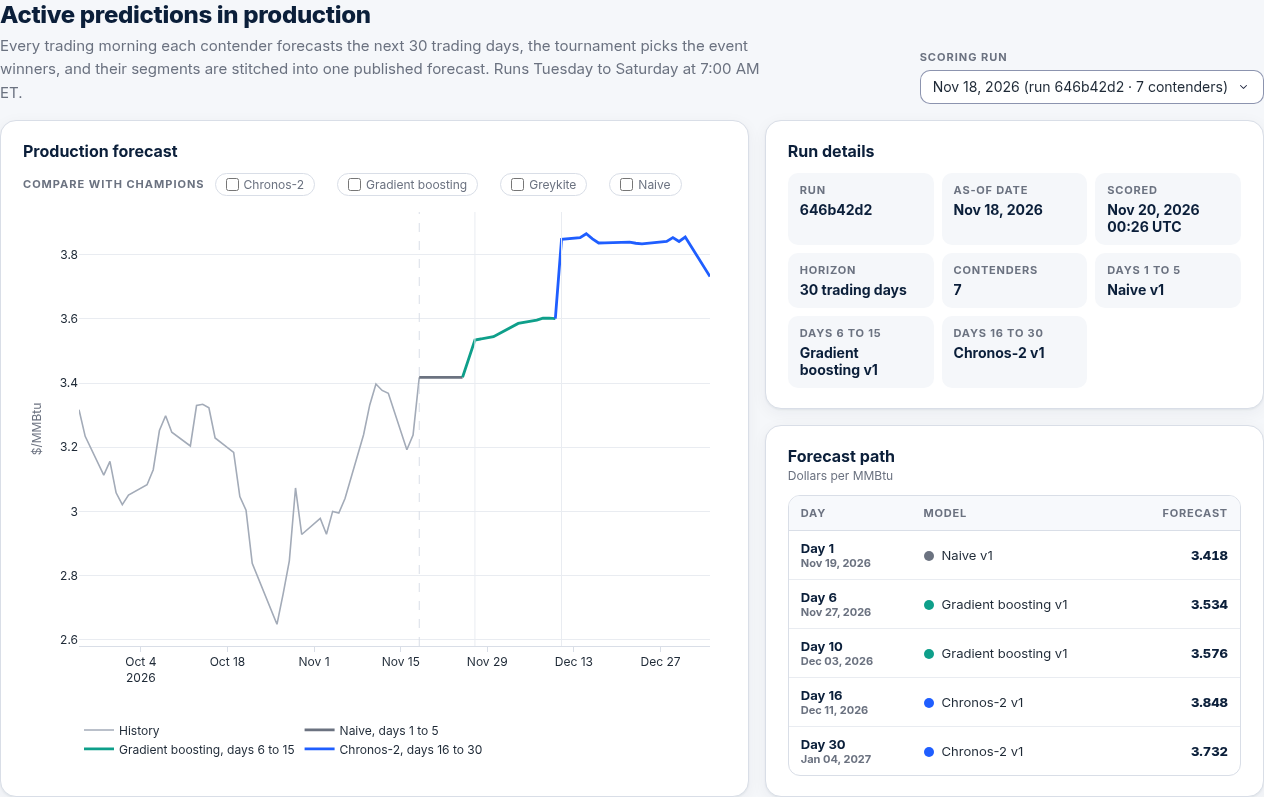
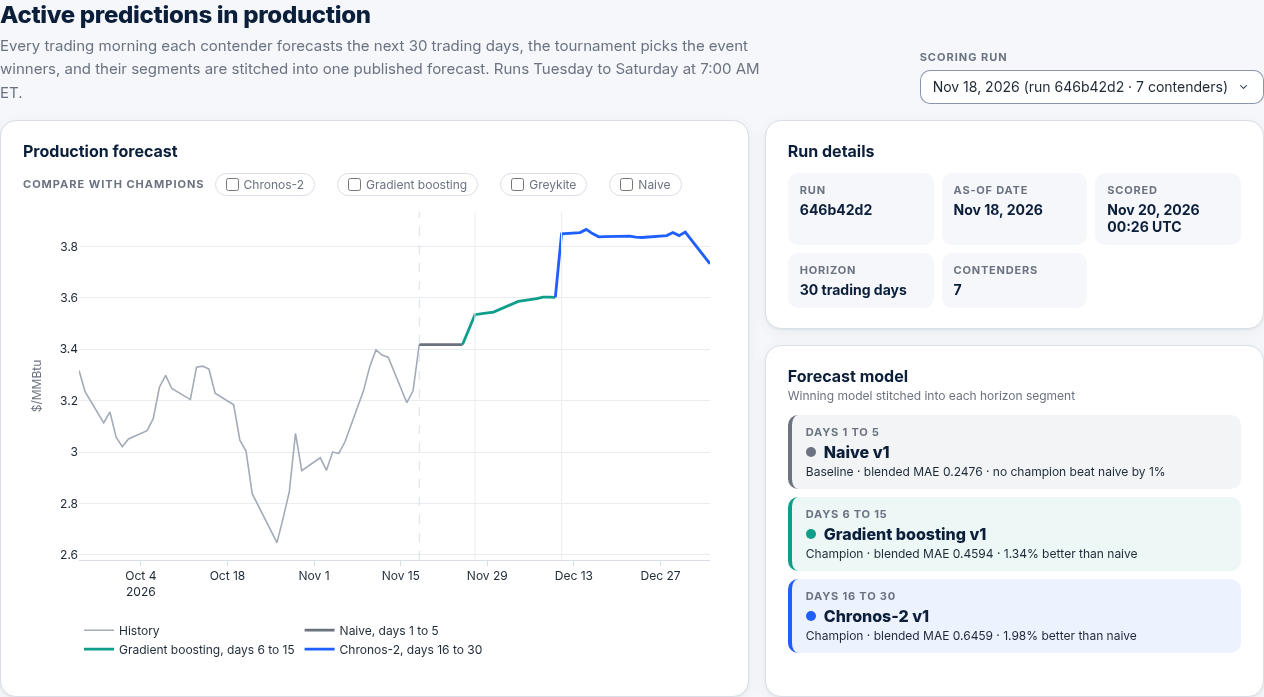
replace forecast path with forecast model card

diff --git a/assets/style.css b/assets/style.css
@@ -529,7 +529,6 @@ a { color: var(--accent); }
 .deck-table .rank-cell { width: 44px; text-align: center; color: var(--muted); font-weight: 700; }
 .deck-table td.strong { font-weight: 800; color: var(--navy); }
 .deck-table tr.is-top td { background: #F5F8FF; }
-.deck-table .path-model { white-space: nowrap; font-size: 13px; }
 .panel-head { display: flex; justify-content: space-between; align-items: center; gap: 12px; flex-wrap: wrap; }
 .compare-row { display: flex; align-items: center; gap: 10px; }
 .compare-row .control-label { margin: 0; white-space: nowrap; }
@@ -560,3 +559,11 @@ a { color: var(--accent); }
 .run-selector-block { display: flex; flex-direction: column; gap: 6px; min-width: 340px; }
 .run-selector-block .control-label { margin: 0; }
 .run-selector .Select-control, .run-selector .dash-dropdown { border-radius: var(--radius-input); }
+
+/* Forecast model card */
+.model-events { display: flex; flex-direction: column; gap: 8px; margin-top: 12px; }
+.model-event { border-left: 4px solid var(--model-color); background: color-mix(in srgb, var(--model-color) 8%, #FFFFFF); border-radius: var(--radius-input); padding: 10px 14px; }
+.model-event-days { font-size: 11px; font-weight: 700; color: var(--muted); text-transform: uppercase; letter-spacing: 0.8px; }
+.model-event-name { display: flex; align-items: center; font-size: 16px; font-weight: 800; color: var(--navy); margin: 3px 0 2px; }
+.model-event-detail { font-size: 12px; color: var(--ink); }
+.deck-stack > .panel:last-child { flex: 1; }

diff --git a/tests/test_forecast_page.py b/tests/test_forecast_page.py
@@ -12,12 +12,13 @@ from components.forecast.BacktestFanChart import BacktestFanChart
 from components.forecast.BacktestScoreTable import BacktestScoreTable
 from components.forecast.EventWinners import EventWinners
 from components.forecast.ForecastIds import ForecastIds
-from components.forecast.ForecastPathTable import ForecastPathTable
+from components.forecast.ForecastModelCard import ForecastModelCard
 from components.forecast.KpiCards import KpiCards
 from components.forecast.ProductionForecastChart import ProductionForecastChart
 from components.forecast.RunDetails import RunDetails
 from components.forecast.SectionHeading import SectionHeading
 from components.forecast.StandingsTable import StandingsTable
+from config.ForecastModels import ForecastModels
 from config.Settings import Settings
 from data.forecast.ForecastCache import ForecastCache
 from data.forecast.ForecastSnapshotBuilder import ForecastSnapshotBuilder
@@ -179,16 +180,37 @@ def test_run_selector_defaults_to_the_newest_run(cache_factory):
     assert "Scoring run" in text_of(layout)
 
 
-def test_run_details_and_path_table_describe_the_run(cache_factory):
+def test_run_details_stay_compact(cache_factory):
+    details = RunDetails().build(run_of(cache_factory()))
+    labels = [text_of(item.children[0]) for item in details.children]
+    assert labels == ["Run", "As-of date", "Scored", "Horizon", "Contenders"]
+    for expected in ("run1", "Mar 15, 2024", "20 trading days", "5"):
+        assert expected in text_of(details)
+
+
+def test_forecast_model_card_highlights_the_winner_of_each_event(cache_factory):
     cache = cache_factory()
-    details = text_of(RunDetails().build(run_of(cache)))
-    for expected in ("run1", "Mar 15, 2024", "20 trading days", "Days 6 to 15", "Gradient boosting v1", "Chronos-2 v1"):
-        assert expected in details
-    table = text_of(ForecastPathTable().build(PredictionRuns(cache.predictions()).production("run1")))
-    for expected in ("Day 1", "Day 6", "Day 10", "Day 16", "Naive v1", "3.660"):
-        assert expected in table
-    assert "3.300" not in table and "3.700" not in table
-    assert "Day 30" not in table
+    production = PredictionRuns(cache.predictions()).production("run1")
+    events = tournament_of(cache).events_on(pd.Timestamp("2024-03-15"))
+    card = ForecastModelCard().build(production, events)
+    rows = card.children
+    assert [text_of(row.children[0]) for row in rows] == ["Days 1 to 5", "Days 6 to 15", "Days 16 to 30"]
+    assert [text_of(row.children[1]).strip() for row in rows] == ["Naive v1", "Gradient boosting v1", "Chronos-2 v1"]
+    assert rows[0].style == {"--model-color": ForecastModels.color("naive")}
+    assert rows[2].style == {"--model-color": ForecastModels.color("chronos")}
+    assert text_of(rows[0].children[2]) == "Baseline \u00b7 blended MAE 0.2000 \u00b7 no champion beat naive by 1%"
+    assert text_of(rows[1].children[2]) == "Champion \u00b7 blended MAE 0.4000 \u00b7 4.76% better than naive"
+
+
+def test_forecast_model_card_falls_back_to_the_production_rows(cache_factory):
+    cache = cache_factory()
+    production = PredictionRuns(cache.predictions()).production("run1")
+    card = ForecastModelCard().build(production, cache.events().iloc[0:0])
+    text = text_of(card)
+    assert "Days 16 to 20" in text and "Gradient boosting v1" in text
+    assert "Baseline \u00b7 from the production forecast" in text
+    assert "blended MAE" not in text
+    assert "No production runs" in text_of(ForecastModelCard().build(production.iloc[0:0], cache.events()))
 
 
 def test_section_heading_has_no_number():
@@ -226,6 +248,7 @@ def test_page_order_and_copy(cache_factory):
         "80% band",
         "Inside the band",
         "Interval coverage",
+        "Forecast path",
         "How it runs",
         "Caveats",
         "pending",
@@ -244,7 +267,7 @@ def test_run_view_updates_for_the_selected_run(cache_factory):
     chart, table, details = page.run_view("run1", ["chronos:champion"])
     assert "Chronos-2 champion path" in trace_names(chart)
     assert "run1" in text_of(details)
-    assert "Day 16" in text_of(table)
+    assert "Chronos-2 v1" in text_of(table) and "Days 16 to 30" in text_of(table)
 
 
 def test_scoreboard_is_collapsible_and_closed_by_default(cache_factory):

diff --git a/pages/PriceForecastPage.py b/pages/PriceForecastPage.py
@@ -13,7 +13,7 @@ from components.forecast.BacktestFanChart import BacktestFanChart
 from components.forecast.BacktestScoreTable import BacktestScoreTable
 from components.forecast.EventWinners import EventWinners
 from components.forecast.ForecastIds import ForecastIds as Ids
-from components.forecast.ForecastPathTable import ForecastPathTable
+from components.forecast.ForecastModelCard import ForecastModelCard
 from components.forecast.KpiCards import KpiCards
 from components.forecast.ProductionForecastChart import ProductionForecastChart
 from components.forecast.RunDetails import RunDetails
@@ -224,12 +224,12 @@ class PriceForecastPage(AbstractProjectPage):
                                 ),
                                 html.Div(
                                     [
-                                        html.H3("Forecast path"),
+                                        html.H3("Forecast model"),
                                         html.Div(
-                                            "Dollars per MMBtu",
+                                            "Winning model stitched into each horizon segment",
                                             className="panel-subtitle",
                                         ),
-                                        html.Div(id=Ids.PATH_TABLE, className="table-wrap"),
+                                        html.Div(id=Ids.MODEL_CARD),
                                     ],
                                     className="panel deck-panel",
                                 ),
@@ -356,7 +356,7 @@ class PriceForecastPage(AbstractProjectPage):
 
         @app.callback(
             Output(Ids.PRODUCTION_CHART, "figure"),
-            Output(Ids.PATH_TABLE, "children"),
+            Output(Ids.MODEL_CARD, "children"),
             Output(Ids.RUN_DETAILS, "children"),
             Input(Ids.RUN_SELECTOR, "value"),
             Input(Ids.COMPARE_CHAMPIONS, "value"),
@@ -369,7 +369,7 @@ class PriceForecastPage(AbstractProjectPage):
             return StandingsTable().build(self.tournament.standings(bucket or self.DEFAULT_BUCKET))
 
     def run_view(self, run_id: str | None, compare: list[str] | None = None) -> tuple:
-        """Chart, forecast path table and details for one run."""
+        """Chart, forecast model card and details for one run."""
         run = self.runs.run(run_id)
         as_of = run["as_of_date"].max() if len(run) else None
         history = (
@@ -378,7 +378,8 @@ class PriceForecastPage(AbstractProjectPage):
             else pd.DataFrame(columns=["date", "high"])
         )
         chart = ProductionForecastChart().build(history, run, compare)
-        return chart, ForecastPathTable().build(self.runs.production(run_id)), RunDetails().build(run)
+        models = ForecastModelCard().build(self.runs.production(run_id), self.tournament.events_on(as_of))
+        return chart, models, RunDetails().build(run)
 
     def fan_stats(self, as_of: pd.Timestamp, models: list[str]) -> list:
         """Small chips under the fan chart: each model's MAE on this date."""

diff --git a/components/forecast/ForecastModelCard.py b/components/forecast/ForecastModelCard.py
@@ -1,0 +1,59 @@
+"""The model behind each horizon segment of one production forecast."""
+
+import pandas as pd
+from dash import html
+
+from analytics.forecast.PredictionRuns import PredictionRuns
+from config.ForecastModels import ForecastModels
+from config.Formats import Formats
+
+
+class ForecastModelCard:
+    """One highlighted row per event: the event days, the winning model and version, its role and score.
+
+    The production rows say which model was stitched into each segment. The event winners
+    for the same as-of date add the role, blended MAE and margin over naive. When a run has
+    no event winners, the role is read from the model and the score is left out.
+    """
+
+    def build(self, production: pd.DataFrame, events: pd.DataFrame) -> html.Div:
+        segments = PredictionRuns.segments(production)
+        if segments.empty:
+            return html.Div("No production runs yet.", className="panel-note")
+        by_first_day = {int(event.first_day): event for event in events.itertuples()}
+        rows = [self.row(segment, by_first_day.get(int(segment.first_day))) for segment in segments.itertuples()]
+        return html.Div(rows, className="model-events")
+
+    def row(self, segment, event) -> html.Div:
+        if event is not None and event.model != segment.model:
+            event = None
+        first, last = (event.first_day, event.last_day) if event is not None else (segment.first_day, segment.last_day)
+        color = ForecastModels.color(segment.model)
+        return html.Div(
+            [
+                html.Div(f"Days {int(first)} to {int(last)}", className="model-event-days"),
+                html.Div(
+                    [
+                        html.Span(className="model-dot", style={"background": color}),
+                        f"{ForecastModels.name(segment.model)} v{segment.model_version}",
+                    ],
+                    className="model-event-name",
+                ),
+                html.Div(self.detail(segment, event), className="model-event-detail"),
+            ],
+            className="model-event",
+            style={"--model-color": color},
+        )
+
+    @staticmethod
+    def detail(segment, event) -> str:
+        if event is None:
+            role = "Baseline" if segment.model == ForecastModels.BASELINE else "Champion"
+            return f"{role} \u00b7 from the production forecast"
+        _, role = ForecastModels.stage_parts(event.stage)
+        role_name = ForecastModels.ROLE_NAMES.get(role, role.capitalize())
+        if event.improvement > 0:
+            margin = f"{Formats.percent(event.improvement, 2)} better than naive"
+        else:
+            margin = "no champion beat naive by 1%"
+        return f"{role_name} \u00b7 blended MAE {Formats.decimal(event.blended_mae)} \u00b7 {margin}"

diff --git a/components/forecast/RunDetails.py b/components/forecast/RunDetails.py
@@ -4,17 +4,15 @@ import pandas as pd
 from dash import html
 
 from analytics.forecast.PredictionRuns import PredictionRuns
-from config.ForecastModels import ForecastModels
 from config.Formats import Formats
 
 
 class RunDetails:
-    """Run id, as-of date, scoring time, horizon and the winner behind each event of the production forecast."""
+    """Run id, as-of date, scoring time, horizon and how many contenders were scored."""
 
     def build(self, run: pd.DataFrame) -> html.Div:
         if run.empty:
             return html.Div()
-        production = run[run["stage"] == ForecastModels.PRODUCTION]
         items = [
             ("Run", str(run["run_id"].iloc[0])[:8]),
             ("As-of date", Formats.date(run["as_of_date"].max())),
@@ -22,13 +20,6 @@ class RunDetails:
             ("Horizon", f"{int(run['horizon_day'].max())} trading days"),
             ("Contenders", str(PredictionRuns.contender_count(run["stage"]))),
         ]
-        for segment in PredictionRuns.segments(production).itertuples():
-            items.append(
-                (
-                    f"Days {segment.first_day} to {segment.last_day}",
-                    f"{ForecastModels.name(segment.model)} v{segment.model_version}",
-                )
-            )
         return html.Dl(
             [html.Div([html.Dt(label), html.Dd(value)], className="run-fact") for label, value in items],
             className="run-facts",

diff --git a/analytics/forecast/TournamentResults.py b/analytics/forecast/TournamentResults.py
@@ -41,6 +41,13 @@ class TournamentResults:
         """The three event winners, in horizon order."""
         return self.latest(self.all_events).sort_values("first_day").reset_index(drop=True)
 
+    def events_on(self, as_of) -> pd.DataFrame:
+        """The event winners for one as-of date, in horizon order. Empty when that date has none."""
+        if self.all_events.empty or as_of is None:
+            return self.all_events.iloc[0:0]
+        rows = self.all_events[self.all_events["as_of_date"] == pd.Timestamp(as_of)]
+        return rows.sort_values("first_day").reset_index(drop=True)
+
     def standings(self, bucket: str) -> pd.DataFrame:
         """Every contender for one horizon bucket, best rank first."""
         rows = self.latest(self.all_standings)

diff --git a/components/forecast/ForecastIds.py b/components/forecast/ForecastIds.py
@@ -12,7 +12,7 @@ class ForecastIds:
     RUN_SELECTOR = "natgas-run-selector"
     RUN_DETAILS = "natgas-run-details"
     PRODUCTION_CHART = "natgas-production-chart"
-    PATH_TABLE = "natgas-path-table"
+    MODEL_CARD = "natgas-model-card"
     COMPARE_CHAMPIONS = "natgas-compare-champions"
     LEADERBOARD_BUCKET = "natgas-leaderboard-bucket"
     LEADERBOARD_TABLE = "natgas-leaderboard-table"

diff --git a/components/forecast/ProductionForecastChart.py b/components/forecast/ProductionForecastChart.py
@@ -15,7 +15,7 @@ class ProductionForecastChart(AbstractForecastFigure):
     Family champions can be drawn as thin dotted lines for comparison.
     """
 
-    HEIGHT = 580
+    HEIGHT = 480
     HISTORY_COLOR = "#A3ABB8"
 
     def build(self, history: pd.DataFrame, run: pd.DataFrame, compare: list[str] | None = None) -> go.Figure:

diff --git a/README.md b/README.md
@@ -126,7 +126,7 @@ The forecasting repository runs a daily tournament. Each model family (Chronos-2
 | --- | --- |
 | Top of the page | The question, data and approach, three key findings, and four cards for the best model over all 30 backtest days: MAPE, WAPE, MAE and bias, each against naive. |
 | Model leaderboard | One card per event with the winning model, its role, its blended MAE and its margin over naive. Below them, a collapsible model scoreboard, closed by default. Opened, it shows the standings for the selected horizon (days 1 to 5, 6 to 15, 16 to 30 or all days): rank, model and role, blended MAE, backtest MAE, production MAE and weight, change against naive and a status (winner, qualified, below the 1% bar, in trials, baseline). |
-| Active predictions in production | A scoring run dropdown, newest run first and selected by default. The chart shows the stitched production path for that run, colored by the event winner behind each segment. The family champions and the naive baseline can be added as dotted lines. The run details name each event winner, and the forecast path table gives days 1, 6, 10, 16 and 30. |
+| Active predictions in production | A scoring run dropdown, newest run first and selected by default. The chart shows the stitched production path for that run, colored by the event winner behind each segment. The family champions and the naive baseline can be added as dotted lines. The run details give the run id, as-of date, scoring time, horizon and contender count, and the forecast model card highlights the model that won each event, in its color, with its role, blended MAE and margin over naive. |
 | Model selection backtests | The rolling-origin backtests used to train and tune each family, which seed every blended score. A slider over all 125 as-of dates shows the price history, the Chronos-2 forecast, a second model of your choice and the actuals, with each model's MAE for that date. Below it, MAE, RMSE, MAPE, WAPE and bias per family over all 30 days. |
 
 ![Case study header and headline numbers](docs/images/natgas-summary.png)
